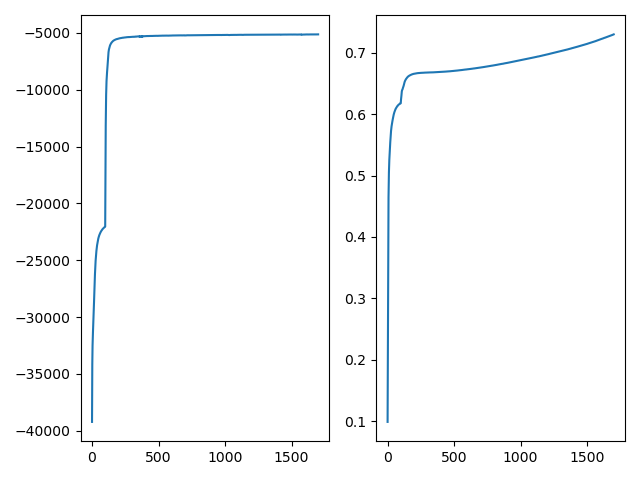
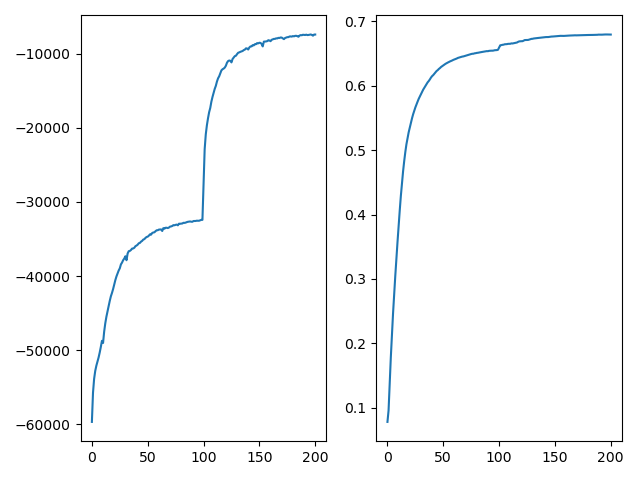
revert noise generation back to older version

diff --git a/main.py b/main.py
@@ -120,6 +120,7 @@ def parse():
 
 def main():
     args = parse()
+    print("Args: ", args)
 
     # set prng keys
     data_key = jr.PRNGKey(args.data_seed)
@@ -146,37 +147,26 @@ def main():
         assert jnp.sqrt(args.T) % 1 == 0
         t = gen_2d_locations(args.T)
 
-    mean_nrs = 1.0
-    noise_factor = 0.1
-    while mean_nrs < 1.05 or mean_nrs > 1.15:
-        data_key, _ = jr.split(data_key)
-        if args.GP:
-            x, z, s, *params = gen_gpnica_data(data_key, t, args.N, args.M,
+    if args.GP:
+        x, z, s, *params = gen_gpnica_data(data_key, t, args.N, args.M,
                                   args.L_data, args.num_data, mu_fn, k_fn,
-                                  noise_factor=noise_factor,
                                   repeat_kernels=args.repeat_kernels)
-        else:
-            x, z, s, tau, *params = gen_tpnica_data(data_key, t, args.N, args.M,
+    else:
+        x, z, s, tau, *params = gen_tpnica_data(data_key, t, args.N, args.M,
                                   args.L_data, args.num_data, mu_fn, k_fn,
                                   args.tp_df, repeat_kernels=args.repeat_kernels,
-                                  noise_factor=noise_factor,
                                   repeat_dfs=args.repeat_dfs)
 
-        # check that noise is appropriate level
-        mean_nrs = jnp.mean(x.var(2) / z.var(2), 0).mean()
-        print("Noise-ratio mean.: {0:.2f}".format(mean_nrs))
-        if mean_nrs < 1.05:
-            noise_factor = 1.5*noise_factor
-        elif mean_nrs > 1.15:
-            noise_factor = 0.5*noise_factor
+    # check that noise is appropriate level
+    mean_nrs = jnp.mean(x.var(2) / z.var(2), 0).mean()
+    print("Noise-ratio mean.: {0:.2f}".format(mean_nrs))
 
     # measure nonlinearity
     nl_metrics = []
     for i in range(args.num_data):
         nl_metrics.append(LR().fit(s[i, :, :].T, z[i, :, :].T).score(
             s[i, :, :].T, z[i, :, :].T))
-    print("Linearity (R2): {0:.2f}".format(
-        jnp.median((jnp.array(nl_metrics)))))
+    print("Linearity (R2): {0:.2f}".format(jnp.median((jnp.array(nl_metrics)))))
 
     # just to plot data for now:
     #X, Y = jnp.meshgrid(jnp.arange(32), jnp.arange(32))

diff --git a/data_generation.py b/data_generation.py
@@ -59,7 +59,7 @@ def sample_tpnica(key, t, gp_mu_fn, gp_k_fn, gp_k_params, df, mixer_params):
 
 def sample_gpnica(key, t, gp_mu_fn, gp_k_fn, gp_k_params, mixer_params):
     # sample each IC as a GP
-    N = mixer_params[0][0].shape[0]
+    N = mixer_params[0].shape[0]
     key, *s_key = jr.split(key, N+1)
     sample_fun = lambda _a, _b: sample_gp(_a, t, gp_mu_fn, gp_k_fn, _b)
     s = vmap(sample_fun)(jnp.vstack(s_key), gp_k_params)
@@ -100,8 +100,12 @@ def gen_tpnica_data(key, t, N, M, L, num_samples, mu_func, kernel_func,
     z, s, tau = lax.map(sample_fun, jnp.vstack(sample_keys))
 
     # add noise
-    x = z + jnp.sqrt(noise_factor)*jr.normal(key, shape=z.shape)
-    Q = jnp.eye(M)*noise_factor
+    #x = z + jnp.sqrt(noise_factor)*jr.normal(key, shape=z.shape)
+    #Q = jnp.eye(M)*noise_factor
+    z = (z-z.mean(axis=(0, 2), keepdims=True)) / z.std(
+        axis=(2,), keepdims=True).mean(0, keepdims=True)
+    x = z+jnp.sqrt(noise_factor)*jr.normal(key, shape=z.shape)
+    Q = noise_factor*jnp.eye(M)
     return x, z, s, tau, Q, mixer_params, k_params, dfs
 
 
@@ -132,8 +136,12 @@ def gen_gpnica_data(key, t, N, M, L, num_samples, mu_func, kernel_func,
     z, s = lax.map(sample_fun, jnp.vstack(sample_keys))
 
     # add noise
-    x = z + jnp.sqrt(noise_factor)*jr.normal(key, shape=z.shape)
-    Q = jnp.eye(M)*noise_factor
+    #x = z + jnp.sqrt(noise_factor)*jr.normal(key, shape=z.shape)
+    #Q = jnp.eye(M)*noise_factor
+    z = (z-z.mean(axis=(0, 2), keepdims=True)) / z.std(
+        axis=(2,), keepdims=True).mean(0, keepdims=True)
+    x = z+jnp.sqrt(noise_factor)*jr.normal(key, shape=z.shape)
+    Q = noise_factor*jnp.eye(M)
     return x, z, s, Q, mixer_params, k_params
 
 
